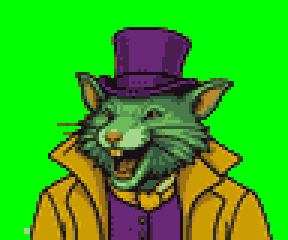
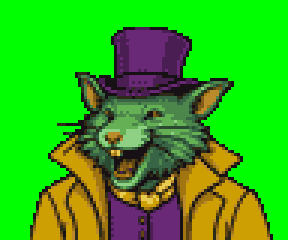
Busts: matte every ref-pipeline bust to clear the light edge halo (#486)
The 14 busts with an art.render record now carry `matte:` (each bust's
darkest palette colour, its outline): the keyed background is painted that
colour before the downscale, so a light background no longer averages into
the silhouette edge. Shipped PNGs and previews are regenerated from the
YAML. 12 of 14 reproduced the old PNGs byte-exact without matte first, so
the matte is the only change there. Prof RBG gains a hand pass that clears
a stray 2x2 speck off his lower-left coat outline. Hlin and Scramsax are
vendored pixel-art crops and are untouched.

Nicolas approved the before/after for all 14 (2026-10-13).

diff --git a/campaigns/rime-of-the-frostmaiden/portraits/prof-rbg_corner_trim.py b/campaigns/rime-of-the-frostmaiden/portraits/prof-rbg_corner_trim.py
@@ -1,0 +1,26 @@
+#!/usr/bin/env python3
+"""Prof RBG post-pipeline hand pass: clear a stray nub at the lower-left corner.
+
+Reproduce the shipped bust from the ref (render params live in pcs/prof-rbg.yaml's
+`art.render:` block):
+
+  python3 tools/ref_to_bust.py "<References>/PCs/RBG3:4_Flat.png" /tmp/rbg.png \
+      --crop 60,40,2240,1856 --zoom 0.88 --flip-h --matte 190f17
+  python3 campaigns/rime-of-the-frostmaiden/portraits/prof-rbg_corner_trim.py /tmp/rbg.png \
+      campaigns/rime-of-the-frostmaiden/portraits/prof-rbg.png
+
+The ref's edge leaves a 2x2 green/pale speck hanging off the coat outline at x 8-9,
+y 76-77 (Nicolas, 2026-10-13). It touches the outline, so ref_to_bust's stray-blob
+cleanup keeps it; this erases it to transparent.
+"""
+import sys
+
+import numpy as np
+from PIL import Image
+
+im = Image.open(sys.argv[1])
+a = np.asarray(im).copy()
+a[76:78, 8:10] = 0
+out = Image.fromarray(a, 'P')
+out.putpalette(im.getpalette())
+out.save(sys.argv[2])

diff --git a/tools/ref_to_bust.py b/tools/ref_to_bust.py
@@ -26,6 +26,8 @@ Usage:
       --bg-thresh d   RGB distance from the border colour treated as background.
       --matte rrggbb  paint the keyed background this colour (the outline's) before
                       the downscale, so a light background cannot halo the edge.
+                      Every ref-pipeline bust ships matted (2026-10-13): pngquant re-picks
+                      the palette, so interior tones shift a little too -- compare by eye.
       --preview big   also write a 3x nearest-neighbour preview.
 
 The --crop box is per-character framing; aim for ~96:80 (1.2) aspect.

diff --git a/tools/chapter_schema.py b/tools/chapter_schema.py
@@ -31,7 +31,7 @@ class Keyed(object):
 
 ART = {'portrait': ANY, 'source': ANY, 'hand_pass': ANY, 'palette': ANY, 'vendored': ANY,
        'map_sprite': {'mu': ANY, 'wait': ANY},
-       'render': {'bg_thresh': ANY, 'crop': ANY, 'hand_pass': ANY, 'ref': ANY, 'zoom': ANY}}
+       'render': {'bg_thresh': ANY, 'crop': ANY, 'hand_pass': ANY, 'matte': ANY, 'ref': ANY, 'zoom': ANY}}
 REWARD = [{'id': ANY, 'amount': ANY}]
 
 # One shape for every unit a chapter places, whatever roster key holds it: the readers treat
